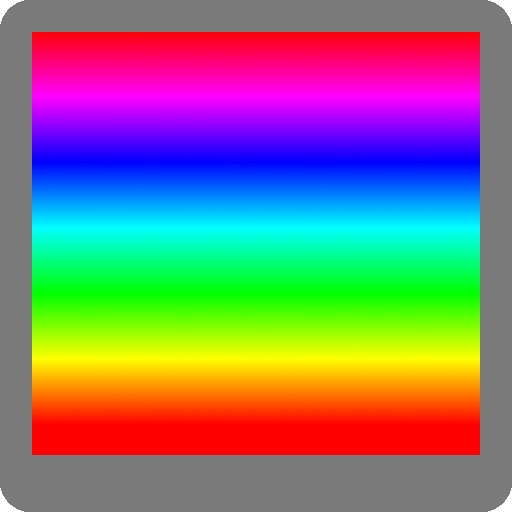
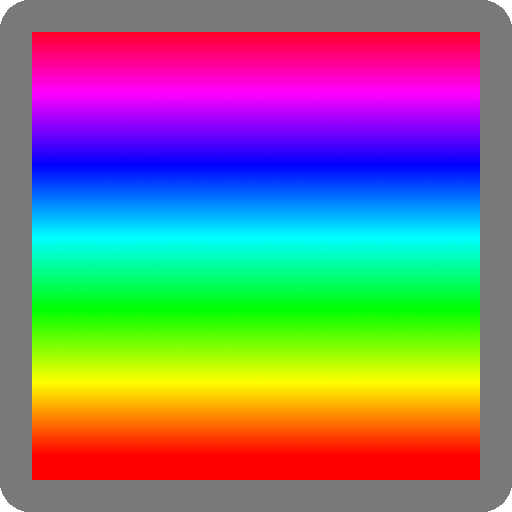
fixed test image and resize calculation

diff --git a/src/lib.rs b/src/lib.rs
@@ -105,8 +105,8 @@ impl<'s> NineSlicedSprite<'s> {
         self.resize_and_blit(
             &self.slices.inner(),
             Size {
-                w: dst_size.w - (top_left.size.w + top_right.size.w) / 2,
-                h: dst_size.h - (top_left.size.h + bottom_left.size.h) / 2,
+                w: dst_size.w - (top_left.size.w + top_right.size.w),
+                h: dst_size.h - (top_left.size.h + bottom_left.size.h),
             },
             Rect {
                 position: PositionU {